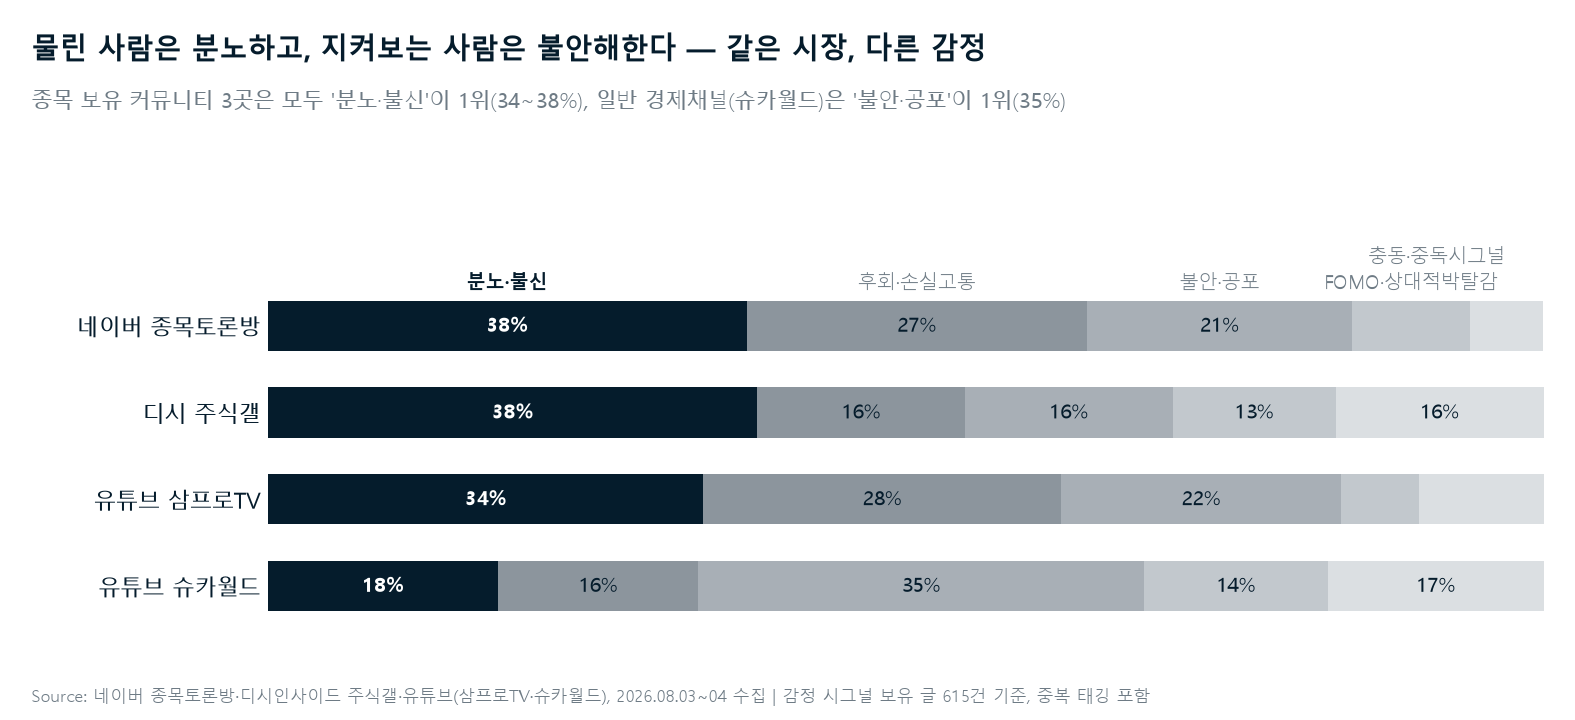
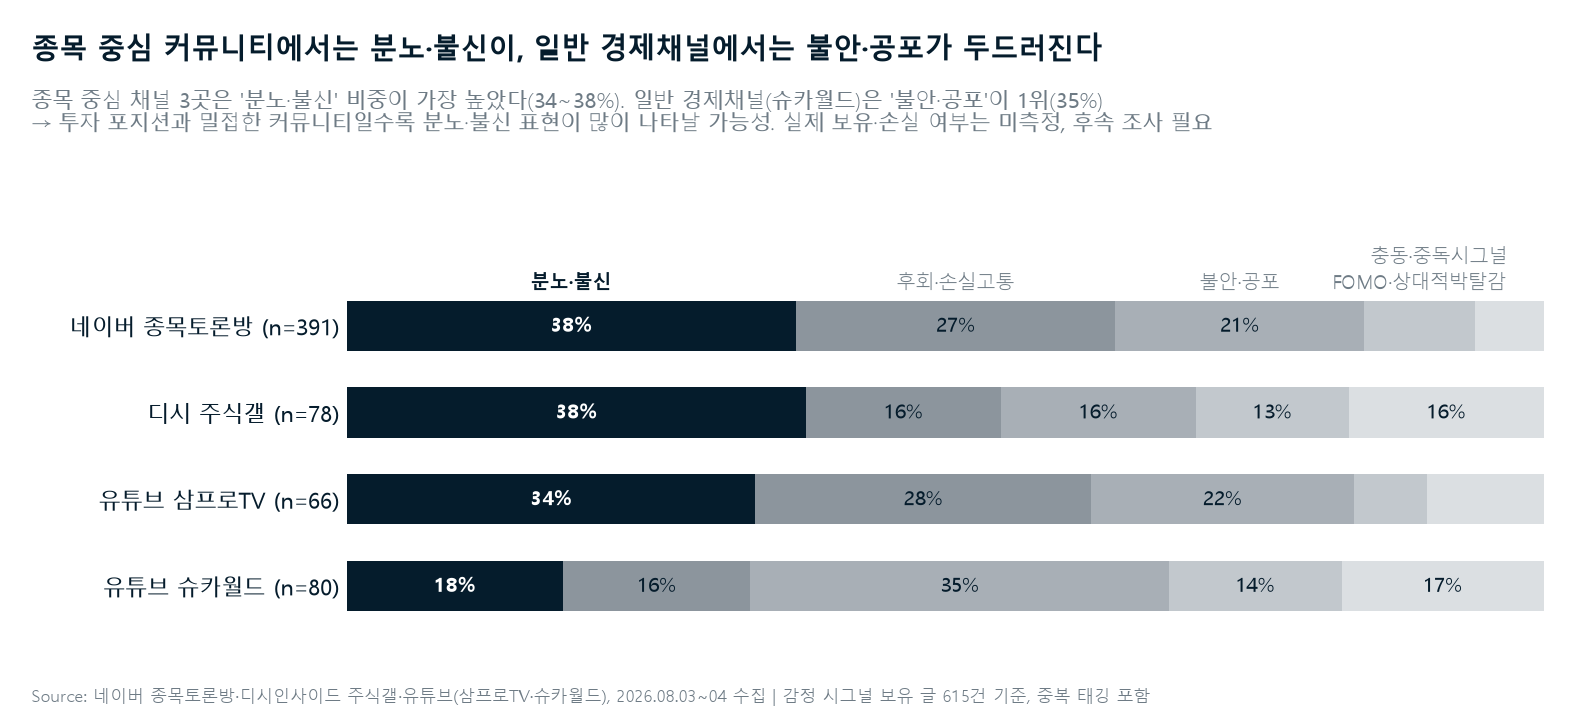
리서치 해석 정교화: 인과 주장 제거, 통계적 강건성 검증 추가
피드백 반영 — 데이터가 보여주는 범위를 넘어선 해석 3건 수정:
- chart1: '보유 여부/손실 경험' 인과 주장 삭제(미측정 변수) → 채널 유형별
  연관성으로 완화, 채널별 감정 게시글 n 병기
- chart2: '특정 종목 문제가 아니다' → '13~20% 범위에 분포했다'로 완화,
  비율 옆 분자/분모 표기로 표본 크기 노출
- chart3: 부트스트랩 95% CI, 중앙값, 상위5개 제외 재계산 추가.
  토론방 1.44배 [1.23-1.70], 상위5 제외 시에도 1.34배로 강건성 확인.
  '되먹임/물린 사람들의 방' 등 미관측 인과 표현 제거
- chart4: '생체신호가 필요한 이유'(필연) → '결합할 필요성이 제기된다'(제언).
  종목명·채널 고유어 제거 전후 상위15 동일(15/15) 검증

PROPOSAL.md: 수치 층위 3단 분리(전체 5,022 / 태깅 문서 615 / 태그 발생 704),
해석 범위 주의 박스 추가, 스토리라인을 관찰 기반으로 재작성

diff --git a/research/charts.py b/research/charts.py
@@ -11,6 +11,7 @@
   chart4_keywords.png       상위 키워드 (정렬 가로막대)
 """
 import csv
+import random
 import re
 from collections import Counter, defaultdict
 from pathlib import Path
@@ -90,9 +91,11 @@ def chart1_channel_mix(rows):
     emos = [e for e, _ in Counter(
         {k: sum(per_ch[c][k] for c in channels) for k in LEXICON}).most_common()]
 
-    # 종목 보유 커뮤니티를 위에, 일반 경제채널을 아래에 배치해 대비
-    HOLDER = ["네이버 종목토론방", "디시 주식갤", "유튜브 삼프로TV"]
-    channels = [c for c in HOLDER if c in channels] + [c for c in channels if c not in HOLDER]
+    # 종목 중심 커뮤니티를 위에, 일반 경제채널을 아래에 배치해 대비
+    # 주의: '보유 여부'는 측정되지 않았다 — 이건 채널 유형 구분이지 투자자 속성 구분이 아니다
+    STOCK_CENTERED = ["네이버 종목토론방", "디시 주식갤", "유튜브 삼프로TV"]
+    channels = [c for c in STOCK_CENTERED if c in channels] + \
+               [c for c in channels if c not in STOCK_CENTERED]
 
     fig, ax = plt.subplots(figsize=(10.5, 4.8))
     left = defaultdict(float)
@@ -125,8 +128,9 @@ def chart1_channel_mix(rows):
                 fontweight="bold" if emo == FOCUS else "normal")
 
     strip_axes(ax)
+    # y축 라벨에 채널별 감정 게시글 n을 병기 — 20건 채널과 300건 채널이 같은 무게로 안 보이도록
     ax.set_yticks(list(range(len(channels)))[::-1])
-    ax.set_yticklabels(channels, fontsize=10.5, color=INK)
+    ax.set_yticklabels([f"{c} (n={totals[c]})" for c in channels], fontsize=10.5, color=INK)
     ax.set_xlim(0, 100)
     ax.set_ylim(-0.55, len(channels) + 0.1)
 
@@ -135,17 +139,19 @@ def chart1_channel_mix(rows):
         k = max(d, key=d.get)
         return k, d[k] / (sum(d.values()) or 1) * 100
 
-    holders = [c for c in channels if c in HOLDER]
-    others = [c for c in channels if c not in HOLDER]
+    holders = [c for c in channels if c in STOCK_CENTERED]
+    others = [c for c in channels if c not in STOCK_CENTERED]
     lo_ch = others[0] if others else channels[-1]
     lo_emo, lo_pct = top_emo(lo_ch)
     hi_range = [top_emo(c)[1] for c in holders]
     title_block(fig,
-                f"물린 사람은 분노하고, 지켜보는 사람은 불안해한다 — 같은 시장, 다른 감정",
-                f"종목 보유 커뮤니티 3곳은 모두 '{FOCUS}'이 1위({min(hi_range):.0f}~{max(hi_range):.0f}%), "
-                f"일반 경제채널({lo_ch.replace('유튜브 ', '')})은 '{lo_emo}'이 1위({lo_pct:.0f}%)")
+                "종목 중심 커뮤니티에서는 분노·불신이, 일반 경제채널에서는 불안·공포가 두드러진다",
+                f"종목 중심 채널 3곳은 '{FOCUS}' 비중이 가장 높았다({min(hi_range):.0f}~{max(hi_range):.0f}%). "
+                f"일반 경제채널({lo_ch.replace('유튜브 ', '')})은 '{lo_emo}'이 1위({lo_pct:.0f}%)\n"
+                "→ 투자 포지션과 밀접한 커뮤니티일수록 분노·불신 표현이 많이 나타날 가능성. "
+                "실제 보유·손실 여부는 미측정, 후속 조사 필요")
     source_block(fig, f"감정 시그널 보유 글 {sum(totals.values()):,}건 기준, 중복 태깅 포함")
-    plt.subplots_adjust(top=0.68, bottom=0.12, left=0.17, right=0.98)
+    plt.subplots_adjust(top=0.68, bottom=0.12, left=0.22, right=0.98)
     plt.savefig(OUT / "chart1_channel_mix.png", dpi=150)
     plt.close()
     print("chart1 저장")
@@ -175,33 +181,59 @@ def chart2_stock_density(rows):
     strip_axes(ax)
     ax.set_yticks(y)
     ax.set_yticklabels(order, fontsize=10.5, color=INK)
-    for yy, v in zip(y, vals):
+    # 비율 옆에 분자/분모를 함께 표기 — 종목별 표본 크기 차이를 숨기지 않는다
+    for yy, s, v in zip(y, order, vals):
         lx = max(v + max(vals) * 0.015, mean_v + max(vals) * 0.02)  # 평균선과 겹침 방지
-        ax.text(lx, yy, f"{v:.0f}%", va="center", fontsize=10,
+        ax.text(lx, yy, f"{v:.1f}%", va="center", fontsize=10,
                 color=INK if v >= mean_v else MUTED,
                 fontweight="bold" if v >= mean_v else "normal")
+        ax.text(lx + max(vals) * 0.075, yy, f"({sig[s]}/{tot[s]})", va="center",
+                fontsize=8.5, color=MUTED)
     ax.axvline(mean_v, color=MUTED, lw=1, ls=(0, (4, 3)), zorder=0)
-    ax.text(mean_v, len(order) - 0.4, f"전체 평균 {mean_v:.0f}%", ha="center",
+    ax.text(mean_v, len(order) - 0.4, f"전체 평균 {mean_v:.1f}%", ha="center",
             fontsize=9, color=MUTED)
-    ax.set_xlim(0, max(vals) * 1.12)
+    ax.set_xlim(0, max(vals) * 1.30)
 
     title_block(fig,
-                f"감정 과열은 특정 종목의 문제가 아니다 — 10개 종목 전부 "
-                f"{min(vals):.0f}~{max(vals):.0f}% 좁은 구간",
-                "종목을 바꿔도 감정 밀도는 그대로 → 개입 대상은 '종목'이 아니라 '투자자의 상태'여야 한다")
-    source_block(fig, f"네이버 종목토론방 {sum(tot[s] for s in stocks):,}건")
-    plt.subplots_adjust(top=0.76, bottom=0.10, left=0.16, right=0.97)
+                f"감정 표현 비율은 10개 종목 모두 {min(vals):.0f}~{max(vals):.0f}% 범위에 분포했다",
+                "분석 대상 안에서는 특정 한두 종목에만 감정 표현이 집중되지 않았다.\n"
+                "→ 종목 특성뿐 아니라 투자자와 커뮤니티의 상태를 함께 볼 필요가 있다")
+    source_block(fig, f"네이버 종목토론방 {sum(tot[s] for s in stocks):,}건, "
+                      "괄호는 (감정 태깅 글/전체 글)")
+    plt.subplots_adjust(top=0.74, bottom=0.10, left=0.16, right=0.97)
     plt.savefig(OUT / "chart2_stock_density.png", dpi=150)
     plt.close()
     print("chart2 저장")
 
 
 # ─────────────────────────────────────────────────────────────
-def chart3_amplification(rows):
-    """질문: 감정글이 더 확산되는가? → 채널 내 배수 비교 (1.0배 기준선)
+def _bootstrap_ci(emo: list[int], non: list[int], iters=2000, seed=42):
+    """평균비의 부트스트랩 95% 신뢰구간. 공감수는 극단값에 민감해 CI가 필수."""
+    rng = random.Random(seed)
+    ratios = []
+    for _ in range(iters):
+        e = [emo[rng.randrange(len(emo))] for _ in range(len(emo))]
+        n = [non[rng.randrange(len(non))] for _ in range(len(non))]
+        me, mn = sum(e) / len(e), sum(n) / len(n)
+        if mn > 0:
+            ratios.append(me / mn)
+    ratios.sort()
+    return ratios[int(len(ratios) * 0.025)], ratios[int(len(ratios) * 0.975)]
 
-    주의: 채널마다 공감수 절대 규모가 달라(슈카월드 평균 25 vs 토론방 2),
-    채널을 섞으면 결과가 왜곡된다. 반드시 채널 '내부'에서 비교한다.
+
+def _median(xs: list[int]) -> float:
+    s = sorted(xs)
+    m = len(s) // 2
+    return float(s[m]) if len(s) % 2 else (s[m - 1] + s[m]) / 2
+
+
+def chart3_amplification(rows):
+    """질문: 감정글이 더 많은 반응을 받는가? → 채널 내 평균비 + 부트스트랩 CI
+
+    주의 1: 채널마다 공감수 절대 규모가 달라(슈카월드 평균 25 vs 토론방 2),
+            채널을 섞으면 왜곡된다. 반드시 채널 '내부'에서 비교한다.
+    주의 2: 공감수는 0이 많고 일부 인기글에 몰려 평균이 극단값에 흔들린다.
+            → 중앙값·상위5개 제외·부트스트랩 CI를 함께 산출해 강건성을 확인한다.
     """
     stat = defaultdict(lambda: {"emo": [], "non": []})
     for r in rows:
@@ -213,38 +245,65 @@ def chart3_amplification(rows):
 
     data = []
     for ch, d in stat.items():
-        if len(d["emo"]) < 30 or len(d["non"]) < 30:
+        emo, non = d["emo"], d["non"]
+        if len(emo) < 30 or len(non) < 30:
             continue
-        ae, an = sum(d["emo"]) / len(d["emo"]), sum(d["non"]) / len(d["non"])
-        data.append((ch, ae / an, ae, an, len(d["emo"])))
-    data.sort(key=lambda x: -x[1])
-    labels = [d[0] for d in data]
-    ratios = [d[1] for d in data]
+        ae, an = sum(emo) / len(emo), sum(non) / len(non)
+        # 상위 5개 제외 후에도 방향이 유지되는지 (인기글 1~2개가 끈 결과인지 확인)
+        e_trim, n_trim = sorted(emo)[:-5], sorted(non)[:-5]
+        trim_ratio = ((sum(e_trim) / len(e_trim)) / (sum(n_trim) / len(n_trim))
+                      if sum(n_trim) else float("nan"))
+        lo, hi = _bootstrap_ci(emo, non)
+        data.append({
+            "ch": ch, "ratio": ae / an, "ae": ae, "an": an,
+            "ne": len(emo), "nn": len(non),
+            "me": _median(emo), "mn": _median(non),
+            "trim": trim_ratio, "lo": lo, "hi": hi,
+        })
+    data.sort(key=lambda x: -x["ratio"])
 
-    fig, ax = plt.subplots(figsize=(9.5, 4.2))
-    y = list(range(len(labels)))[::-1]
-    colors = [NAVY if r > 1 else GRAYS[2] for r in ratios]
-    ax.barh(y, ratios, color=colors, height=0.55)
+    fig, ax = plt.subplots(figsize=(10, 4.8))
+    y = list(range(len(data)))[::-1]
+    # CI가 1.0을 넘지 않는(=유의한) 경우만 강조
+    colors = [NAVY if d["lo"] > 1 else GRAYS[2] for d in data]
+    ax.barh(y, [d["ratio"] for d in data], color=colors, height=0.5)
+    # 부트스트랩 95% CI 오차막대
+    for yy, d in zip(y, data):
+        ax.plot([d["lo"], d["hi"]], [yy, yy], color=INK if d["lo"] > 1 else MUTED,
+                lw=1.2, solid_capstyle="butt", zorder=3)
+        for x in (d["lo"], d["hi"]):
+            ax.plot([x, x], [yy - 0.09, yy + 0.09],
+                    color=INK if d["lo"] > 1 else MUTED, lw=1.2, zorder=3)
+
     strip_axes(ax)
     ax.set_yticks(y)
-    ax.set_yticklabels(labels, fontsize=10.5, color=INK)
-    for yy, (ch, ratio, ae, an, n) in zip(y, data):
-        lx = max(ratio + 0.04, 1.07)  # 1.0배 기준선과 라벨이 겹치지 않도록
-        ax.text(lx, yy, f"{ratio:.2f}배", va="center", fontsize=10.5,
-                color=INK if ratio > 1 else MUTED,
-                fontweight="bold" if ratio > 1 else "normal")
-        ax.text(lx, yy - 0.32, f"감정글 {ae:.1f} vs 그 외 {an:.1f} (n={n})",
-                va="center", fontsize=8, color=MUTED)
+    ax.set_yticklabels([d["ch"] for d in data], fontsize=10.5, color=INK)
+    xmax = max(d["hi"] for d in data)
+    for yy, d in zip(y, data):
+        lx = max(d["hi"] + xmax * 0.03, 1.06)
+        sig = d["lo"] > 1
+        ax.text(lx, yy + 0.16, f"{d['ratio']:.2f}배  [{d['lo']:.2f}–{d['hi']:.2f}]",
+                va="center", fontsize=10, color=INK if sig else MUTED,
+                fontweight="bold" if sig else "normal")
+        ax.text(lx, yy - 0.09,
+                f"중앙값 {d['me']:.0f} vs {d['mn']:.0f} · 상위5 제외 {d['trim']:.2f}배",
+                va="center", fontsize=7.5, color=MUTED)
+        ax.text(lx, yy - 0.28, f"평균 {d['ae']:.1f} vs {d['an']:.1f} · n={d['ne']}/{d['nn']}",
+                va="center", fontsize=7.5, color=MUTED)
     ax.axvline(1.0, color=MUTED, lw=1, ls=(0, (4, 3)), zorder=0)
-    ax.text(1.0, len(labels) - 0.35, "1.0배 = 차이 없음", ha="center", fontsize=9, color=MUTED)
-    ax.set_xlim(0, max(ratios) * 1.25)
+    ax.text(1.0, len(data) - 0.3, "1.0배 = 차이 없음", ha="center", fontsize=9, color=MUTED)
+    ax.set_xlim(0, xmax * 1.42)
+    ax.set_ylim(-0.6, len(data) - 0.2)
 
-    top_ch, top_r = data[0][0], data[0][1]
+    top = data[0]
     title_block(fig,
-                f"감정 되먹임은 '물린 사람들의 방'에서만 작동한다 — {top_ch} {top_r:.2f}배",
-                "종목토론방에서는 감정글이 더 많은 공감을 받지만, 일반 경제채널에서는 오히려 덜 받는다")
+                f"{top['ch']}에서는 감정글의 평균 공감수가 비감정글보다 {top['ratio']:.2f}배 높았다",
+                "종목토론방에서는 감정 표현이 더 많은 반응을 얻었지만, 일반 경제채널에서는 "
+                "같은 패턴이 나타나지 않았다\n"
+                "→ 가로선은 부트스트랩 95% 신뢰구간. 중앙값·상위5개 제외 결과를 함께 표기해 "
+                "인기글 쏠림 여부를 확인할 수 있다")
     source_block(fig, "채널 내부 비교(채널 간 공감수 규모 차이 보정), 공감수 집계 가능 글 기준")
-    plt.subplots_adjust(top=0.72, bottom=0.13, left=0.20, right=0.97)
+    plt.subplots_adjust(top=0.70, bottom=0.12, left=0.18, right=0.97)
     plt.savefig(OUT / "chart3_amplification.png", dpi=150)
     plt.close()
     print("chart3 저장")
@@ -263,10 +322,19 @@ def chart4_keywords(rows):
         cnt.update(t.form for t in kiwi.tokenize(text)
                    if t.tag in ("NNG", "NNP") and len(t.form) > 1 and t.form not in STOPWORDS)
 
-    top = cnt.most_common(15)
+    # 상위어가 종목·채널 구성 때문에 올라온 건 아닌지 확인 (제거 전후 비교, 콘솔 출력)
+    DOMAIN_NOISE = {"삼성", "전자", "하이닉스", "에코", "프로", "카카오", "네이버", "현대",
+                    "테슬라", "엔비디아", "구독", "영상", "채널", "댓글", "링크"}
+    cnt_clean = Counter({k: v for k, v in cnt.items() if k not in DOMAIN_NOISE})
+    before = [k for k, _ in cnt.most_common(15)]
+    after = [k for k, _ in cnt_clean.most_common(15)]
+    print(f"  [chart4] 종목·채널어 제거 전후 상위15 일치: "
+          f"{len(set(before) & set(after))}/15 | 제거된 항목: {set(before) - set(after) or '없음'}")
+
+    top = cnt_clean.most_common(15)
     labels = [k for k, _ in top][::-1]
     vals = [v for _, v in top][::-1]
-    RATIONAL = {k for k, _ in top[:3]}  # 상위 3개 = 표면의 이성적 언어
+    RATIONAL = {k for k, _ in top[:3]}  # 상위 3개 = 표면의 정보·투자 언어
 
     fig, ax = plt.subplots(figsize=(9.5, 6))
     y = list(range(len(labels)))
@@ -283,10 +351,11 @@ def chart4_keywords(rows):
 
     top3 = "·".join(k for k, _ in top[:3])
     title_block(fig,
-                f"커뮤니티의 표면 언어는 이성적이다 — 상위 3개가 '{top3}'",
-                "충동은 글에 드러나지 않는다(명시적 감정 표현 13%) → 텍스트만으로는 감지 불가, "
-                "생체신호가 필요한 이유")
-    source_block(fig, "커뮤니티·댓글 텍스트 명사 기준")
+                f"빈도 상위 키워드는 {top3}였다 — 감정은 표면 어휘만으로 드러나지 않는다",
+                "명시적 감정 표현은 전체 게시글의 일부(13.4%)였고, 빈도 상위어는 정보·투자 관련 단어가 차지했다\n"
+                "→ 단순 키워드 분석만으로 주문 직전의 충동 상태를 포착하기 어렵고, "
+                "행동·생체신호를 결합할 필요성이 제기된다")
+    source_block(fig, "커뮤니티·댓글 텍스트 명사 기준, 종목명·채널 고유어 제외")
     plt.subplots_adjust(top=0.79, bottom=0.09, left=0.14, right=0.97)
     plt.savefig(OUT / "chart4_keywords.png", dpi=150)
     plt.close()

diff --git a/PROPOSAL.md b/PROPOSAL.md
@@ -12,10 +12,17 @@
 
 ### 1-1. 정량 결과
 
-- 토론방·커뮤니티 글의 **13.4%가 명시적 감정 시그널**(불안·후회·FOMO·분노·충동)을 포함(615건)
-- 감정 분포: **분노·불신(246) > 후회·손실고통(171) > 불안·공포(155) > FOMO·박탈감(70) > 충동·중독(62)** — 4개 채널 전체에서 동일한 서열 유지
-- 워드클라우드 상위어: 매수, 급등, 공매도, 폭락, 레버리지, 손절, 고점, 신용, 잡주 — **투자 판단 언어보다 전투·손실 언어가 지배적**
-- 단, 명사 빈도 기준으로는 '실적·투자·반도체'가 최상위 — 표면 언어는 이성적이고 충동은 텍스트에 드러나지 않는다 (§1-3 참고)
+**수치 정의** (혼동을 막기 위해 세 층위를 분리해 표기한다):
+
+| 층위 | 값 | 의미 |
+|---|---|---|
+| 전체 수집 문서 | **5,022건** | 4개 채널 크롤링 원문 (커뮤니티 4,576 + 뉴스 446) |
+| 감정 태깅 모집단 | **4,576건** | 커뮤니티·댓글 글 (뉴스 제외 — 기자 문체라 감정 렉시콘 부적합) |
+| 감정이 1개 이상 태깅된 문서 | **615건 (13.4%)** | 모집단 4,576건 대비 비율 |
+| 감정 태그 발생 횟수 | **704회** | 한 문서가 복수 감정에 걸릴 수 있어 문서 수보다 큼 |
+
+- 감정 태그 분포(발생 횟수 기준): **분노·불신 246 > 후회·손실고통 171 > 불안·공포 155 > FOMO·박탈감 70 > 충동·중독 62** — 4개 채널 전체에서 동일한 서열
+- 워드클라우드([탐색용](research/output/wordcloud_board.png))에는 매수·급등·공매도·폭락·손절 등 손실 언어가 눈에 띄지만, **명사 빈도 순위로는 실적·투자·반도체가 최상위** — 표면 어휘만으로는 감정 상태가 드러나지 않는다 (§1-3 관찰 4)
 
 ### 1-2. 실제 목소리 (수집 원문)
 
@@ -30,16 +37,20 @@
 | 후회와 자책 | "오늘 장초반에 팔았어야 됐나?" / "손절도 기술" |
 | 시스템 불신으로의 전가 | "공매도 작업 중" / "세력 매집" / "시세 조작" — 손실 원인을 외부에 귀인 |
 
-### 1-3. 데이터가 말하는 4가지 발견 — "왜 이 제품이어야 하는가"
+### 1-3. 데이터가 말하는 4가지 관찰
 
 전 채널 통합 5,022건(네이버 토론방 본문·댓글, 디시 주식갤 4개, 유튜브 삼프로TV·슈카월드, 뉴스) 분석 결과. 차트: [research/output/](research/output/)
 
-| # | 발견 | 함의 |
+> **해석 범위 주의**: 본 데이터에는 작성자의 실제 **보유 여부·손실 경험·매매 시점이 포함되지 않는다.** 따라서 아래는 채널·종목·어휘 수준에서 관찰된 **연관성**이며, 인과관계가 아니다. 커뮤니티 이용자를 보유자로 간주할 수도 없다.
+
+| # | 관찰된 사실 | 함의 (가설) |
 |---|---|---|
-| 1 | **물린 사람은 분노하고, 지켜보는 사람은 불안해한다** — 종목 보유 커뮤니티 3곳은 분노·불신 1위(34~38%), 일반 경제채널(슈카월드)만 불안·공포 1위(35%) ([chart1](research/output/chart1_channel_mix.png)) | 감정은 채널 문화가 아니라 **손실 경험**에서 나온다. 사후 분노가 아닌 사전 개입이 필요한 이유 |
-| 2 | **감정 과열은 특정 종목의 문제가 아니다** — 10개 종목 전부 감정 밀도 13~20% 좁은 구간 ([chart2](research/output/chart2_stock_density.png)) | 개입 대상은 '위험 종목'이 아니라 **'투자자의 상태'** — 종목 경고가 아닌 상태 감지 제품이어야 함 |
-| 3 | **감정 되먹임은 '물린 사람들의 방'에서만 작동한다** — 토론방에선 감정글이 1.44배 공감받고, 일반 채널에선 0.55배로 외면 ([chart3](research/output/chart3_amplification.png)) | 커뮤니티가 감정을 증폭하는 구조적 루프 존재. 증폭 루프 밖에서 개인에게 직접 개입해야 함 |
-| 4 | **커뮤니티의 표면 언어는 이성적이다** — 상위 키워드가 '실적·투자·반도체', 명시적 감정 표현은 13%뿐 ([chart4](research/output/chart4_keywords.png)) | **충동은 텍스트에 드러나지 않는다** → 텍스트 감성분석만으론 감지 불가, 생체신호가 필요한 결정적 근거 |
+| 1 | **종목 중심 커뮤니티에서는 분노·불신이, 일반 경제채널에서는 불안·공포가 두드러진다** — 종목 중심 채널 3곳 모두 분노·불신 비중 최고(34~38%, n=66~391), 일반 경제채널(슈카월드)은 불안·공포 1위(35%, n=80) ([chart1](research/output/chart1_channel_mix.png)) | 투자 포지션과 밀접한 커뮤니티일수록 분노·불신 표현이 많이 나타날 **가능성**. 실제 보유·손실 여부는 후속 조사로 확인 필요 |
+| 2 | **감정 표현 비율은 10개 종목 모두 13.4~19.9% 범위에 분포했다** — 특정 한두 종목에 집중되지 않음 (종목별 분자/분모 병기) ([chart2](research/output/chart2_stock_density.png)) | 분석 대상 안에서는 종목 특성만으로 설명하기 어렵다 → **종목뿐 아니라 투자자·커뮤니티의 상태**를 함께 볼 필요 |
+| 3 | **토론방에서는 감정글의 평균 공감수가 비감정글보다 1.44배 높았다** — 부트스트랩 95% CI [1.23–1.70], 상위 5개 글 제외 시에도 1.34배 유지, 중앙값 2 vs 1. 일반 경제채널에서는 같은 패턴 없음(슈카월드 0.55배) ([chart3](research/output/chart3_amplification.png)) | 종목토론방에서는 감정 표현이 더 많은 반응을 얻었다. 커뮤니티 유형에 따라 감정 표현의 확산 양상이 다를 수 있음 |
+| 4 | **빈도 상위 키워드는 실적·투자·반도체였다** — 명시적 감정 표현은 전체의 13.4%, 종목명·채널 고유어 제거 전후 상위 15개 동일(15/15) ([chart4](research/output/chart4_keywords.png)) | 단순 빈도 기반 키워드 분석만으로는 주문 직전의 충동 상태를 포착하기 어렵다 → **행동·생체신호를 결합할 필요성**이 제기됨 (더 정교한 NLP로 잡힐 여지도 남아 있음) |
+
+**스토리라인**: 여러 종목에서 감정 표현이 반복 관찰된다 → 분석 대상에서는 특정 종목에만 집중되지 않는다 → 감정 표현에 대한 반응은 채널 유형에 따라 다르다 → 단순 표면 키워드는 감정 상태를 충분히 드러내지 않는다 → **시장·행동·생체신호를 함께 보는 접근을 검증할 가치가 있다.**
 
 ### 1-4. 문제의 구조
 
@@ -51,7 +62,9 @@
   → 후회("팔았어야") → 분노·외부귀인("세력·공매도") → 다음 급등에서 반복
 ```
 
-**핵심 통찰**: 분노·불신(246건, 전체 감정 시그널의 35%)이 압도적 1위라는 것은, 투자자들이 손실의 원인을 자신의 의사결정 과정에서 찾지 못하고 외부(세력·공매도·언론)에 귀인하고 있다는 뜻이다. **자기 상태를 비춰주는 거울이 없기 때문에 같은 실수가 반복된다.** 기존 증권앱은 이 사이클을 막기는커녕 실시간 등락률·급등 알림으로 오히려 증폭시킨다.
+**해석**: 분노·불신이 감정 태그의 35%(246/704회)로 가장 많았다. 원문을 보면 상당수가 손실 원인을 외부(세력·공매도·언론)로 지목하는 표현이다. 이는 **자기 의사결정 과정을 되돌아볼 수 있는 도구가 없다면 같은 패턴이 반복될 수 있다**는 가설로 이어진다. 기존 증권앱은 실시간 등락률·급등 알림으로 이 사이클을 오히려 자극하는 방향에 가깝다.
+
+*단, 위 사이클 도식은 개별 사용자를 추적한 것이 아니라 수집된 표현들을 재구성한 것이다. 실제 시퀀스 검증은 P1의 n=1 자기실험에서 이뤄진다.*
 
 ### 1-5. 왜 지금인가
 
